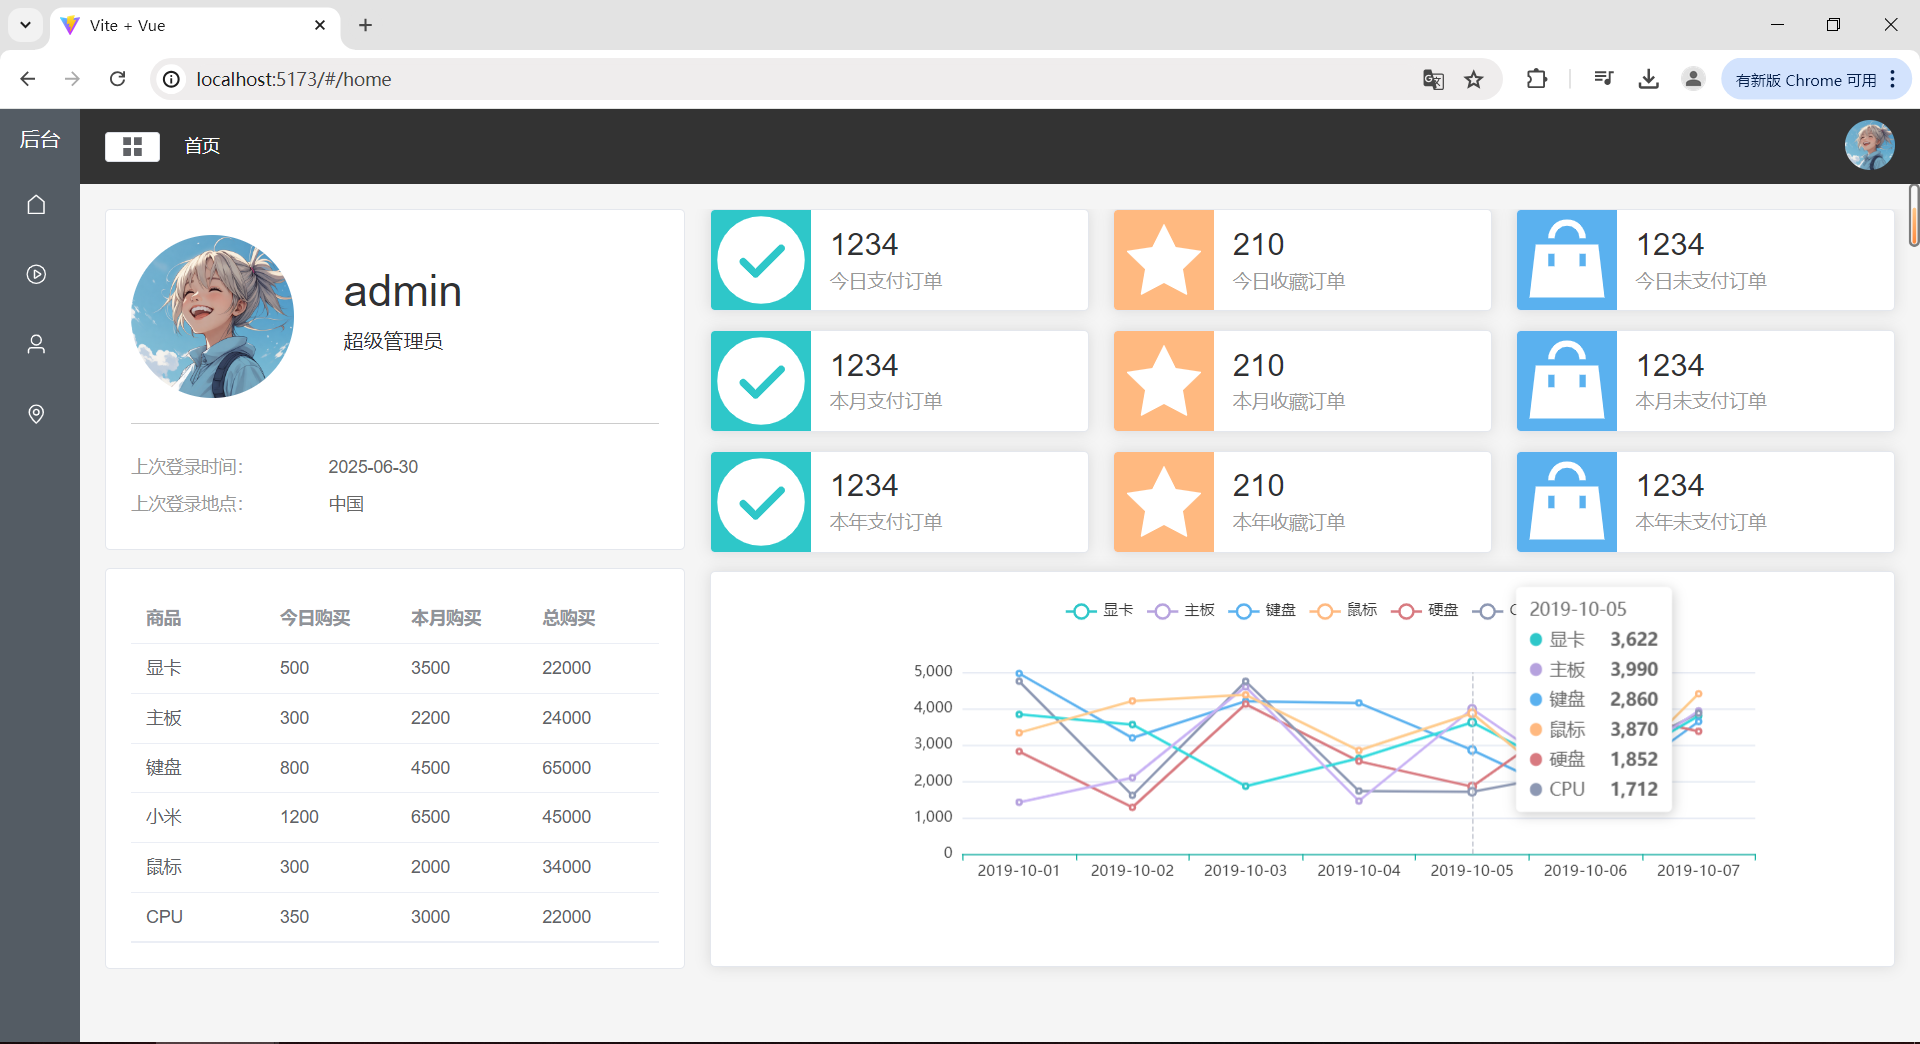
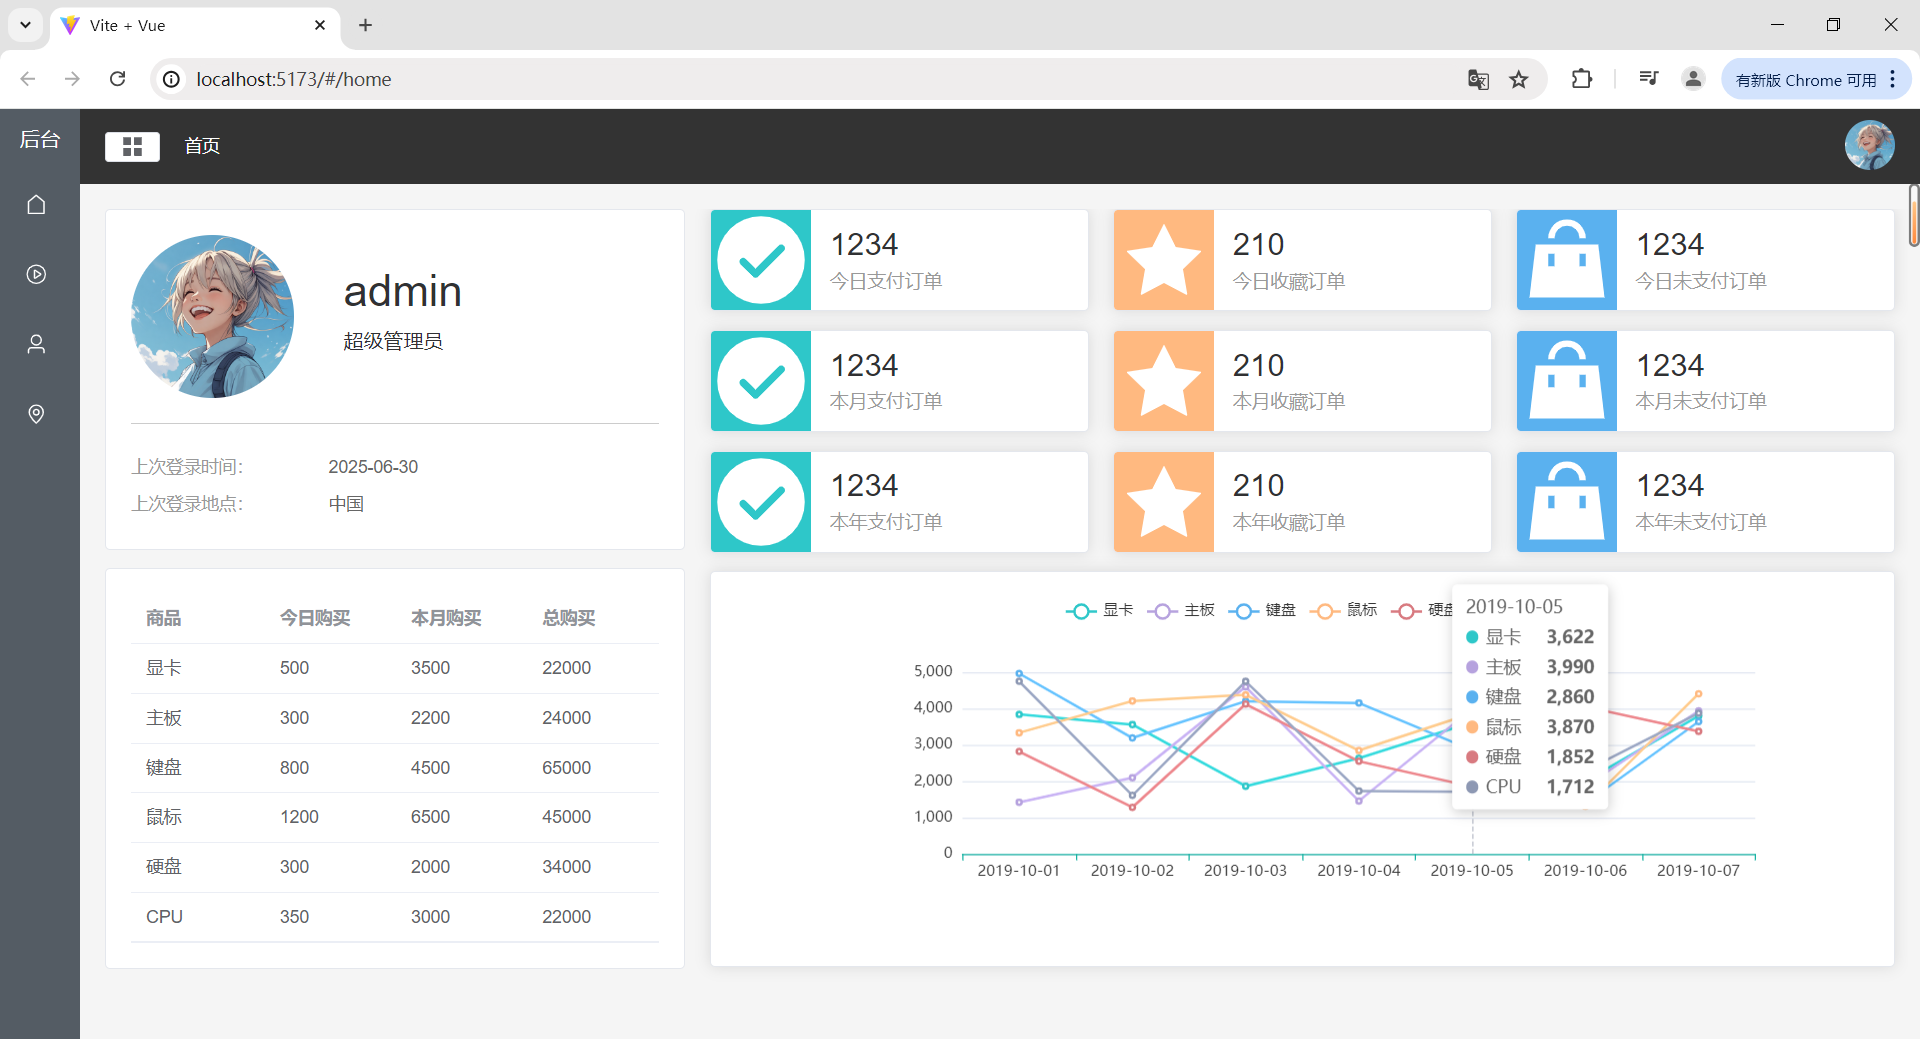
update readme

diff --git a/src/api/mockData/homeData.js b/src/api/mockData/homeData.js
@@ -22,13 +22,13 @@ export default {
             totalBuy: 65000,
           },
           {
-            name: "小米",
+            name: "鼠标",
             todayBuy: 1200,
             monthBuy: 6500,
             totalBuy: 45000,
           },
           {
-            name: "鼠标",
+            name: "硬盘",
             todayBuy: 300,
             monthBuy: 2000,
             totalBuy: 34000,

diff --git a/README.md b/README.md
@@ -4,4 +4,4 @@
 
 效果图：
 
-![效果图](https://github.com/liumengyu12321/Vue3-Project/blob/master/src/assets/images/view.png)
+![效果图](./src/assets/images/view.png)
